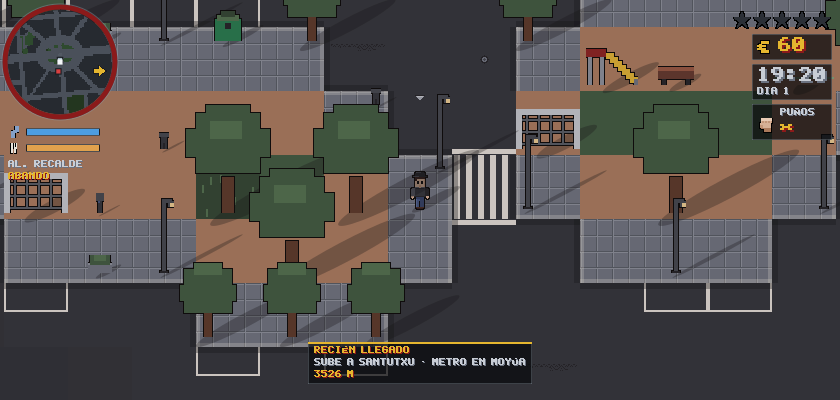
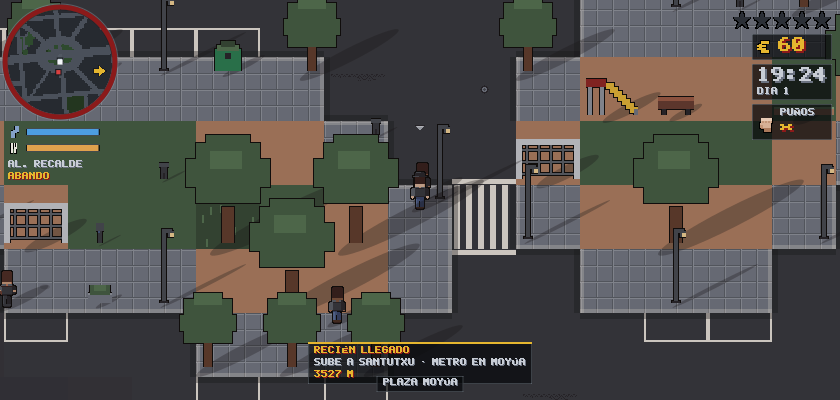
feat(bilbo-city): gaviotas sobre la ría, y la captura deja de fotografiar un mundo en pausa
- Diez gaviotas planeando en círculo por la capa de vuelo, con su sombra en el suelo y
  haciendo el corro sobre el agua cuando hay ría cerca. Se reciclan alrededor del jugador
  como el tráfico, y de cerca: la pantalla enseña trece casillas y diez gaviotas repartidas
  por noventa no se ven nunca. La batería comprueba que están, que se mueven, que no se
  quedan atrás y que se pintan en vuelo y no en otra capa.
- `captura.js` cierra el diálogo antes de disparar. El prólogo arranca con el suyo abierto
  y eso deja el juego en pausa: todas las capturas de la sesión eran de un mundo congelado
  —sin gaviotas, con el reloj parado y el tráfico quieto—.

Claude-Session: https://claude.ai/code/session_01NtercYBRM3YRCpqKNoAo7d

diff --git a/bilbo-city/referencia/bilbo-city.html b/bilbo-city/referencia/bilbo-city.html
@@ -3249,6 +3249,7 @@ const MOB_M={deposito:[2.0,2.2],climatizador:[1.2,1.0],antenaTv:[1.2,2.4],tended
   /* El monte de Bilbao es pino de repoblación y eucalipto, no el plátano de sombra de la
      Gran Vía: siete metros de fuste y copa estrecha. */
   pino:[3.0,7.0],matorral:[1.6,1.0]};
+const AVE=[];
 function generarProps(){
  /* Lo que hay encima de un tejado. Va suelto y sembrado por hash, como el mobiliario de
     la acera: dibujado dentro del tile se repetiría en cada casilla del edificio. */
@@ -3579,6 +3580,19 @@ function generarProps(){
   for(let x=5;x<28;x+=6)P(g,x,3,1,14,C.grisL);
   for(let y=5;y<18;y+=6)P(g,3,y,26,1,C.grisL);});
  M_('fuenteBeber',(g)=>{P(g,1,3,2,7,C.grisO);P(g,0,0,4,4,C.gris);P(g,1,4,1,1,C.azulL);});
+ /*── Vuelo ────────────────────────────────────────────────────────────────*/
+ /* La gaviota, vista desde abajo del todo: dos alas y poco más. Bilbao es puerto a catorce
+    kilómetros del mar y hay gaviotas hasta en el Casco. No lleva medida en MOB_M porque no
+    se planta en el suelo: no tiene huella. */
+ /* Metro y pico de envergadura, que es lo que mide una gaviota patiamarilla, y la punta
+    del ala oscura: sobre una acera clara, una mancha blanca entera no se ve. */
+ AVE[0]=S_(22,8,(g)=>{P(g,9,2,4,5,C.blanco);P(g,10,7,2,1,C.mostazaO);
+  P(g,2,3,8,2,C.blanco);P(g,12,3,8,2,C.blanco);
+  P(g,0,2,3,2,C.carbon);P(g,19,2,3,2,C.carbon);
+  P(g,2,2,8,1,C.hueso);P(g,12,2,8,1,C.hueso);});
+ AVE[1]=S_(22,12,(g)=>{P(g,9,6,4,5,C.blanco);P(g,10,11,2,1,C.mostazaO);
+  P(g,4,0,6,7,C.blanco);P(g,12,0,6,7,C.blanco);
+  P(g,3,0,3,3,C.carbon);P(g,16,0,3,3,C.carbon);});
  /*── Monte ────────────────────────────────────────────────────────────────*/
  M_('pino',(g)=>{P(g,13,52,4,18,'#4a3524');
   P(g,8,34,14,20,'#24471f');P(g,5,40,20,10,'#2b5426');
@@ -6985,6 +6999,27 @@ function rejilla(c,dt,persigue){
   c.dx=el[0];c.dy=el[1];c.tx+=el[0];c.ty+=el[1];}
  c.ang=Math.atan2(c.ty+.5-c.y,c.tx+.5-c.x);
  c.x+=Math.cos(c.ang)*c.vel*dt;c.y+=Math.sin(c.ang)*c.vel*dt;}
+/* Diez gaviotas planeando. Van por la capa de vuelo —no las tapa nada, están por encima
+   de los tejados— y en círculo, que es como planea una gaviota: no aletea, se deja llevar.
+   Se reciclan alrededor del jugador como el tráfico, y si hay ría cerca hacen el corro
+   sobre el agua, que es donde comen. */
+const gaviotas=[];
+function nuevaGaviota(cx,cy){
+ /* Cerca: la pantalla enseña trece casillas de ancho, y diez gaviotas repartidas por
+    noventa no se ven nunca. */
+ let mx=cx+rndi(-10,10),my=cy+rndi(-7,7);
+ for(let i=0;i<40;i++){const x=clamp(cx+rndi(-11,11),2,MW-3),y=clamp(cy+rndi(-8,8),2,MH-3);
+  if(Tc(x,y)===AGUA||Tc(x,y)===MUELLE){mx=x;my=y;break;}}
+ return{cx:clamp(mx,2,MW-3),cy:clamp(my,2,MH-3),r:rnd(2.5,7),a:rnd(0,6.28),
+  w:rnd(.25,.6)*(azar()<.5?1:-1),alto:rnd(6,16),f:0,x:mx,y:my};}
+function actGaviotas(dt){
+ if(S.escena!=='ciudad')return;
+ if(!gaviotas.length)for(let i=0;i<10;i++)gaviotas.push(nuevaGaviota(player.x|0,player.y|0));
+ for(const v of gaviotas){
+  v.a+=v.w*dt;v.f+=dt;
+  v.x=v.cx+Math.cos(v.a)*v.r;
+  v.y=v.cy+Math.sin(v.a)*v.r*.62;
+  if(Math.hypot(v.x-player.x,v.y-player.y)>19)Object.assign(v,nuevaGaviota(player.x|0,player.y|0));}}
 function asustar(p,r){for(const q of peatones)if(dist(q,p)<r){q.huye=3.5;if(azar()<.1)sfx('grito',.3);}}
 function objetivo(){
  if(S.mision){const p=pasoActual();if(!p)return null;return p.t==='robar'?p.coche:p.p;}
@@ -7185,6 +7220,7 @@ function actCiudad(dt,ix,iy,correr,fuerza,apuntando){
   else player.pose=player.sigilo?'agacha':player.herido>0?'herido':(arma(S.armaAct).cuerpo?'quieto':'apunta');
  }
  ojos(dt);
+ actGaviotas(dt);
  reciclarCoches();
  for(const c of trafico){c.frenado=(player.enCoche&&dist(c,player)<2.2)?1:0;rejilla(c,dt,false);
   if(dist(c,player)>56)Object.assign(c,nuevoTrafico(player.x|0,player.y|0));}
@@ -7649,6 +7685,15 @@ function dibCiudad(){
     Cincuenta y siete por fotograma son cincuenta y siete dibujos, y casi todas caen fuera
     de pantalla: el mapa mide siete kilómetros. */
  capa=CAPA.VUELO;
+ /* Primero las gaviotas y su sombra: están sobre la ciudad, pero por debajo de los
+    rótulos, que no son cosas del mundo. */
+ for(const v of gaviotas){
+  if(v.x<x0-2||v.x>x1+2||v.y<y0-2||v.y>y1+2)continue;
+  const so=SOL.elev?sombraSol(v.alto):null;
+  if(so){ctx.fillStyle='rgba(7,9,12,.18)';ctx.beginPath();
+   ctx.ellipse(v.x*TS+so.dx,v.y*TS+so.dy,5,2.5,0,0,6.283);ctx.fill();}
+  const spr=AVE[(v.f*4|0)%2];
+  ctx.drawImage(spr,Math.round(v.x*TS-spr.width/2),Math.round(v.y*TS-spr.height/2-v.alto*2));}
  for(const p of POI){
   if(p.p.x<x0-3||p.p.x>x1+3||p.p.y<y0-3||p.p.y>y1+3)continue;
   const sx=p.p.x*TS,sy=p.p.y*TS;

diff --git a/bilbo-city/herramientas/html/pruebas.js b/bilbo-city/herramientas/html/pruebas.js
@@ -292,6 +292,37 @@ const listo = async (que = 'btnNuevo:click', topeMs = 20000) => {
       bien.push(enPlaza + ' de ' + total + ' coches aparcados en plaza marcada y en el sentido de la calle');
     }
 
+    // ── 1 ter ter · las gaviotas ───────────────────────────────────────
+    /* Bilbao es puerto a catorce kilómetros del mar: hay gaviotas hasta en el Casco. Van
+       por la capa de vuelo y planean en círculo, así que lo que se comprueba es que estén,
+       que se muevan, que no se queden atrás cuando el jugador se va y que se pinten donde
+       les toca — no que hagan un dibujo bonito. */
+    {
+      S.escena = 'ciudad'; A.cerrarDlg(); P.enCoche = null;
+      P.x = 700.5; P.y = 300.5; paso(20);
+      ok(A.gaviotas.length === 10, 'no hay gaviotas: ' + A.gaviotas.length);
+      const antes = A.gaviotas.map(v => v.x + ',' + v.y);
+      paso(20);
+      const movidas = A.gaviotas.filter((v, i) => v.x + ',' + v.y !== antes[i]).length;
+      ok(movidas === A.gaviotas.length, (A.gaviotas.length - movidas) + ' gaviotas quietas en el aire');
+      let lejos = A.gaviotas.filter(v => Math.hypot(v.x - P.x, v.y - P.y) > 22).length;
+      ok(!lejos, lejos + ' gaviotas se han quedado fuera de la pantalla sin reciclarse');
+      // Y se pintan en vuelo: por encima de la ciudad y por debajo de los rótulos.
+      A.gaviotas.forEach((v, i) => { v.cx = P.x + ((i % 3) - 1) * 2; v.cy = P.y; v.r = 0.5; });
+      const g = A.real.getContext('2d'), ant = g.drawImage;
+      let dibujadas = 0, capas = new Set();
+      g.drawImage = function (im, ...r) {
+        if (A.AVE.includes(im)) { dibujadas++; capas.add(A.capaAct()); }
+        return ant.apply(this, [im, ...r]);
+      };
+      paso(2);
+      g.drawImage = ant;
+      ok(dibujadas > 0, 'las gaviotas no se pintan');
+      ok(capas.size === 1 && capas.has(A.CAPA.VUELO),
+         'las gaviotas se pintan en la capa [' + [...capas].join(',') + '] y no en vuelo');
+      bien.push(A.gaviotas.length + ' gaviotas planeando sobre la ría, en la capa de vuelo');
+    }
+
     // ── 1 quater · el sol y la hora ────────────────────────────────────
     /* Desde arriba, la sombra es lo único que dice cuánto levanta un edificio y hasta
        dónde llega su tejado. Antes era fija —siempre abajo y a la derecha, nueve píxeles—

diff --git a/bilbo-city/herramientas/html/arnes.js b/bilbo-city/herramientas/html/arnes.js
@@ -58,7 +58,7 @@ js=js.slice(0,i)+`global.__={S,player,MISIONES,empezarMision,avanzarPaso,objetiv
  NIVEL_ARMA,NIVEL_VEHICULO,comer,verTab,telC,roof,famDe,familiaTejado,TEJADO_DE,PROP,SINGULARES,PLANO_SINGULAR,TS,CALLES,calleEn,calleDe,LARGO_CALLE,nombrarCalles,
  BASES,cargarSprites,setDe,lutDe,hojaDeSet,TORSOS,PIERNAS,CALZADO,C,COMPLEX,ARMA_MANO,FOG,contorno,sc,ANCHO_FACH,REVOCO,PISO_BARRIO,poseAndar,MS,ZANCADA,
  poi,pasoActual,npcCerca,MOB_M,CAPA,capaAct,sombraSol,sombraCorta,calcularSol,luzAmbiente,largoSombra,SOL,MOB_CONTORNO,empezarPrologo,PROLOGO,PRIMO,
- MOB_PIEZA,SIEMBRA,SIEMBRA_TEJADO,TOPE_ALTO,ALTO_TAPA,cajaProp,cajaJugador,tapa,plantar,anclaMob,siluetas:()=>siluetas};
+ MOB_PIEZA,SIEMBRA,gaviotas,AVE,actGaviotas,SIEMBRA_TEJADO,TOPE_ALTO,ALTO_TAPA,cajaProp,cajaJugador,tapa,plantar,anclaMob,siluetas:()=>siluetas};
  sembrar(SEMILLA);`+js.slice(i);
 eval(js);
 module.exports={H,step:n=>{for(let k=0;k<n;k++){now+=16.7;const f=raf;raf=null;if(!f)throw new Error('sin frame');f(now);}},

diff --git a/bilbo-city/herramientas/html/captura.js b/bilbo-city/herramientas/html/captura.js
@@ -44,6 +44,9 @@ listo().then(() => {
     const [hh, mm] = hora.split(':').map(Number);
     A.S.min = hh * 60 + (mm || 0);
   }
+  // El prólogo arranca con su diálogo abierto y eso deja el juego en pausa: sin cerrarlo,
+  // la captura enseña un mundo congelado —ni gaviotas, ni tráfico moviéndose—.
+  A.cerrarDlg();
   const donde = txt('--donde');
   if (donde) {
     const [x, y] = donde.split(',').map(Number);

diff --git a/bilbo-city/CLAUDE.md b/bilbo-city/CLAUDE.md
@@ -281,6 +281,16 @@ fuera de ella, que ninguna línea de detención se quede sin su paso delante, qu
 esté lejos del bordillo, que ningún semáforo esté suelto y que la separación entre farolas
 —contada sobre las casillas de bordillo— caiga entre 15 y 45 m.
 
+**Y hay gaviotas.** Diez, planeando en círculo por la capa de vuelo —no las tapa nada— con
+su sombra en el suelo, y haciendo el corro sobre el agua cuando hay ría cerca, que es donde
+comen. Bilbao es puerto a catorce kilómetros del mar: las hay hasta en el Casco. Se reciclan
+alrededor del jugador como el tráfico, y de cerca: la pantalla enseña trece casillas de ancho
+y diez gaviotas repartidas por noventa no se ven nunca.
+
+**Los coches aparcan en su plaza.** Los cuarenta coches aparcados se soltaban en cualquier
+casilla de calzada, en mitad del carril y cruzados. La plaza pintada dice dónde va uno y de
+qué lado queda el bordillo, así que ahora van arrimados y mirando a donde va la calle.
+
 ## El sol, la hora y el canto negro
 
 La pregunta era si lo que faltaba era contorno o sombra. Son dos cosas distintas y hacían
